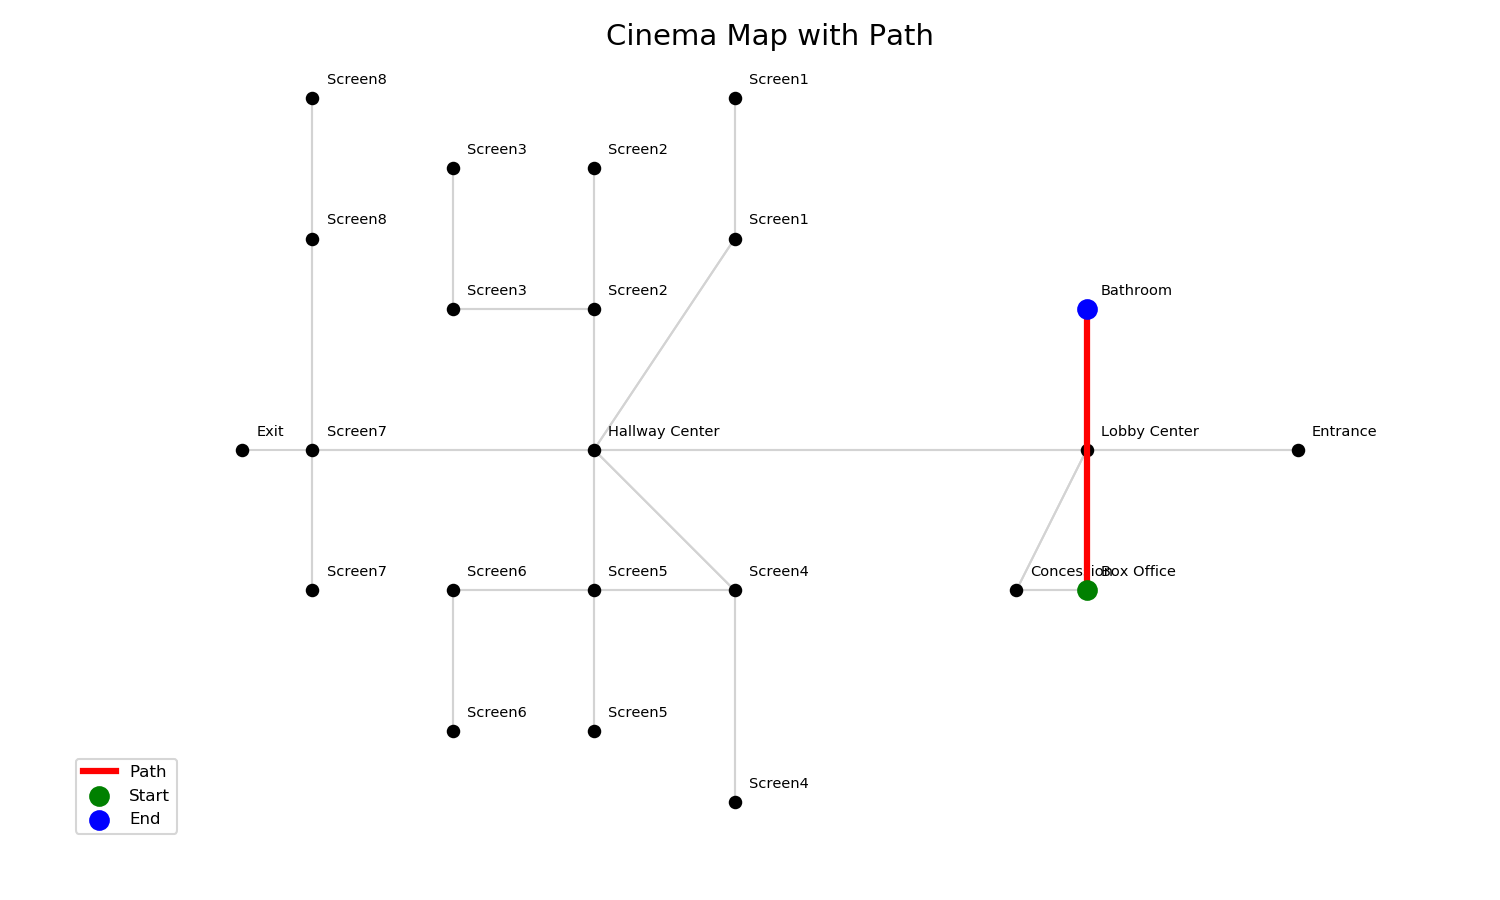
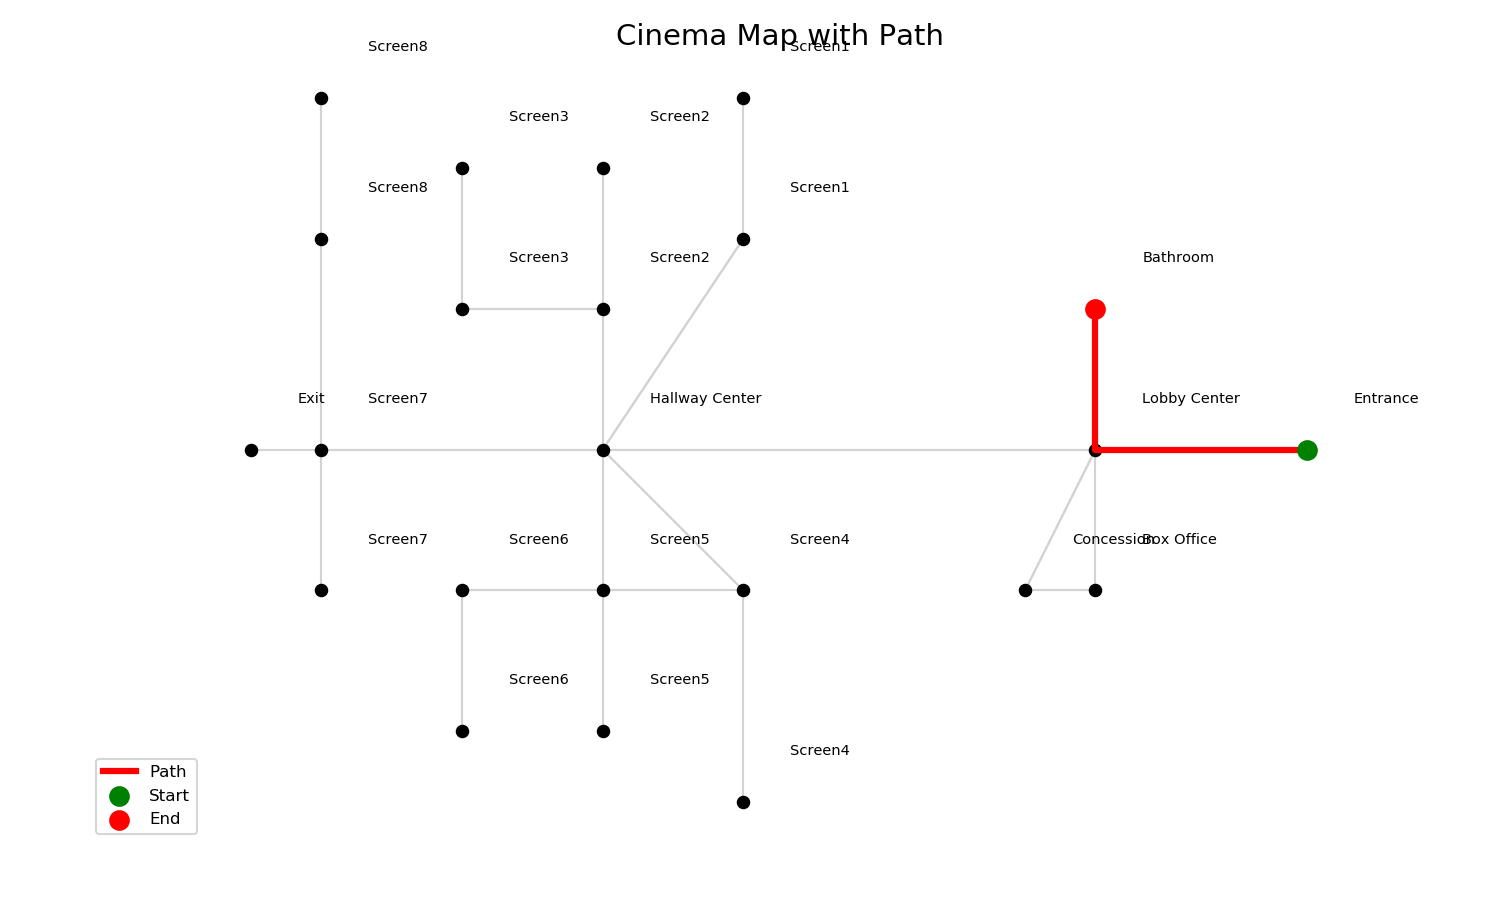
risolto cose ultime commit

diff --git a/classes/cinema_map.py b/classes/cinema_map.py
@@ -153,22 +153,15 @@ class CinemaMap:
 
         # Draw all nodes
         for node, (x, y) in self.nodes.items():
+            color = 'black'
+            size = 30
+            ax.scatter(x, y, c=color, s=size, zorder=2)
+
+            # Use readable label (shorten names for clarity)
             label = node.replace('_', ' ').title()
             if "Screen" in label and "_" in node:
                 label = label.replace(" Entrance", "")
-
-            # Indicate busy bathroom
-            if node.lower() == "bathroom" and bathroom_busy:
-                color = 'red'
-                size = 100
-                ax.scatter(x, y, c=color, s=size, marker='X', zorder=6, label='Bathroom Busy')
-                ax.text(x + 0.2, y + 0.2, label + " (Busy)", fontsize=7, color='red', zorder=7)
-            else:
-                color = 'black'
-                size = 30
-                ax.scatter(x, y, c=color, s=size, zorder=2)
-                ax.text(x + 0.2, y + 0.2, label, fontsize=7, color='black', zorder=3)
-
+            ax.text(x + 0.2, y + 0.2, label, fontsize=7, color='black', zorder=3)
 
         # Highlight path
         path_coords = [self.nodes[node] for node in path]
@@ -182,7 +175,10 @@ class CinemaMap:
         ex, ey = self.nodes[end_node]
 
         ax.scatter(sx, sy, c='green', s=80, label='Start', zorder=5)
-        ax.scatter(ex, ey, c='blue', s=80, label='End', zorder=5)
+        if(end_node=="bathroom" and bathroom_busy):
+            ax.scatter(ex, ey, c='red', s=80, label='End', zorder=5)
+        else:
+            ax.scatter(ex, ey, c='blue', s=80, label='End', zorder=5)
 
         # Clean and format
         ax.set_title('Cinema Map with Path', fontsize=14)

diff --git a/classes/motion_manager.py b/classes/motion_manager.py
@@ -60,13 +60,11 @@ class MotionManager(object):
             # Ritorna alla posizione iniziale
             self.motion.angleInterpolation(names, initial_angles, [1.0]*4, True)
             
-            # Generate verbal directi
-            verbal_direction = "Go "
             
             # Add landmarks if available
             landmarks = self._get_landmarks_on_path(path)
             if landmarks:
-                verbal_direction += ". {}".format(landmarks)
+                verbal_direction = "{}".format(landmarks)
                 
             # Hold pointing position briefly
             import time

diff --git a/classes/cinema_database.py b/classes/cinema_database.py
@@ -618,7 +618,8 @@ class CinemaDatabase(object):
         # Step 4: Add 50 showtimes with non-overlapping random times
         used_times = set()
         count = 0
-        for movie_id, _ in random.shuffle(inserted_movies):
+        random.shuffle(inserted_movies) 
+        for movie_id, _ in inserted_movies:
             if count >= 50:
                 break
 
